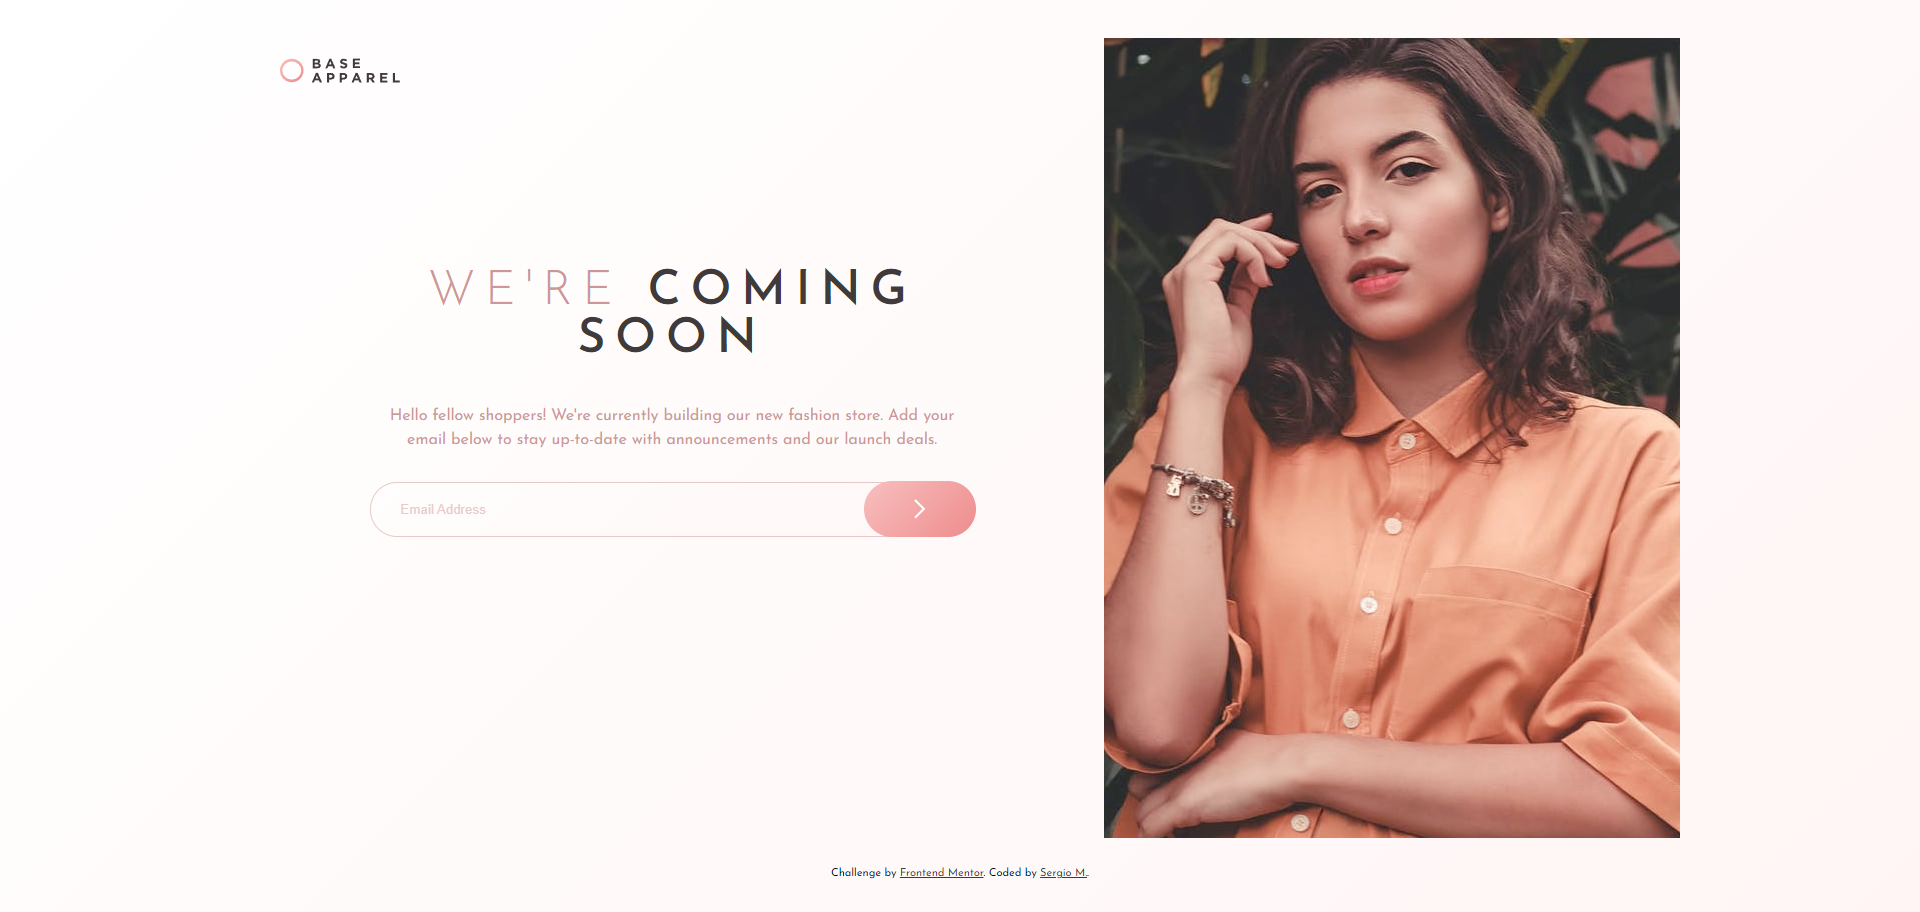
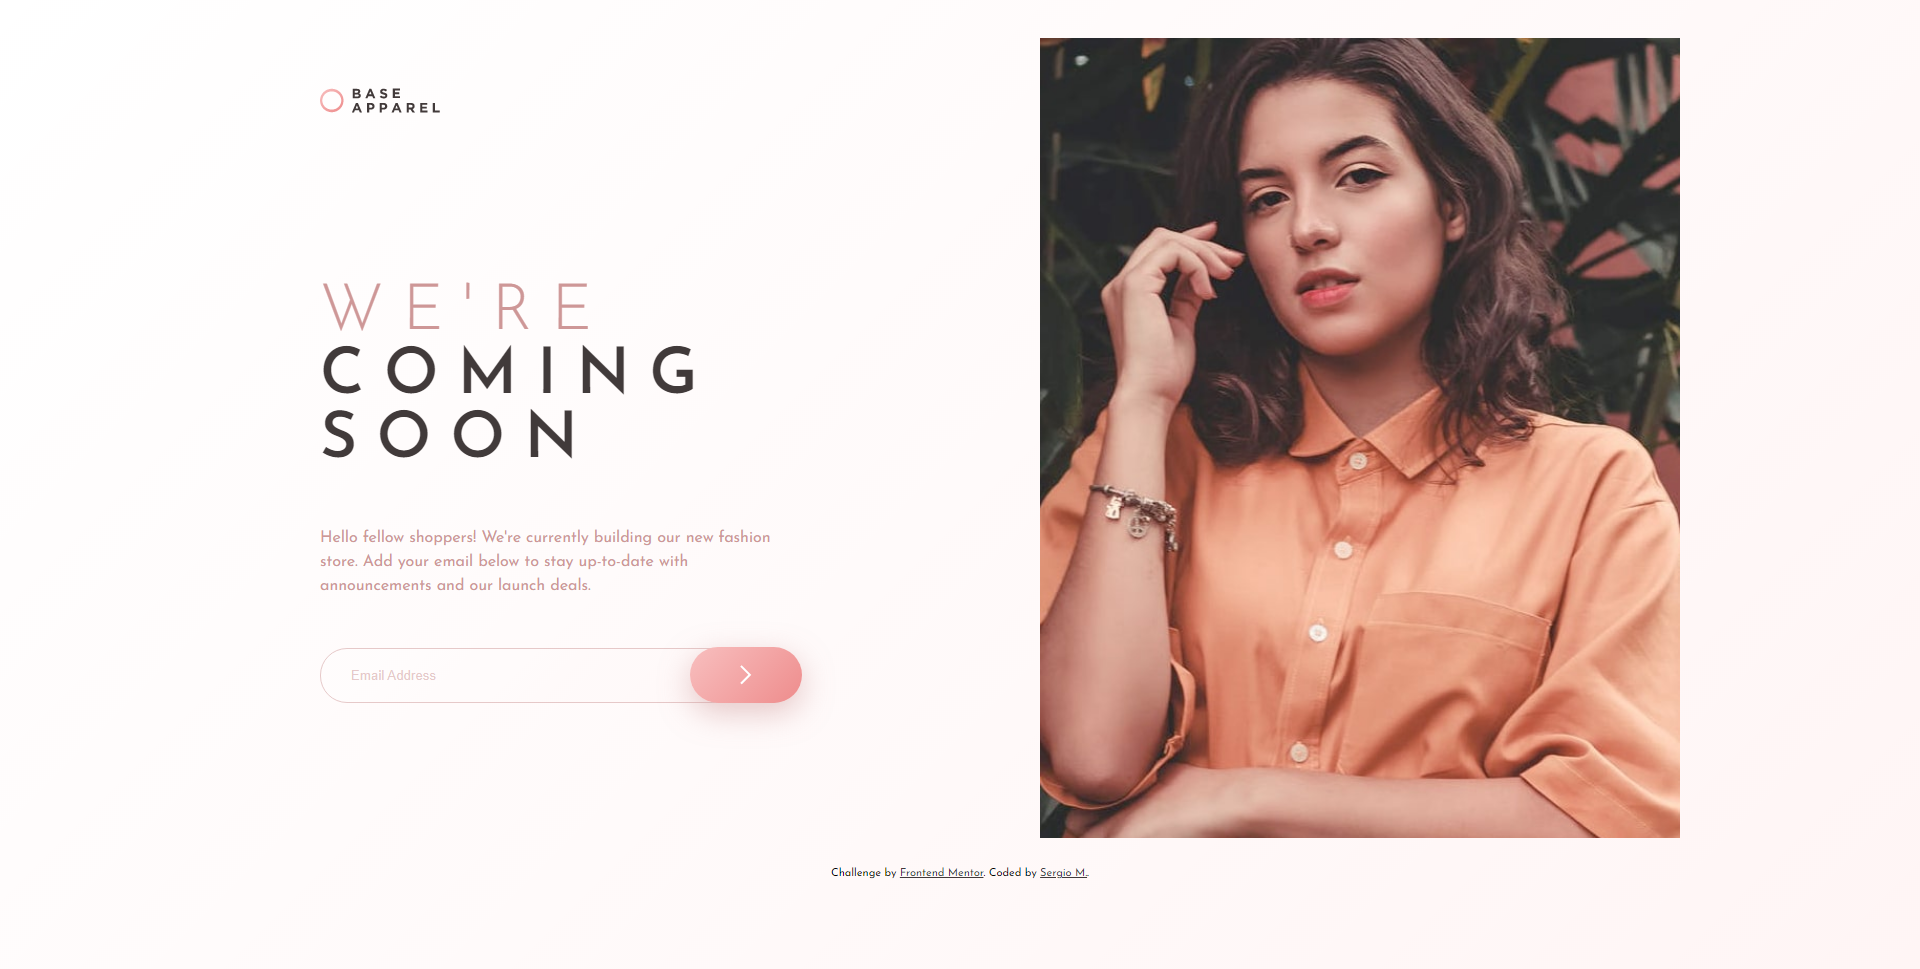
I add final details for today

diff --git a/style.css b/style.css
@@ -85,7 +85,7 @@ body{
     position: absolute;
     right: -2px;
     top: -1px;
-    box-shadow: 0 10px 30px var(--DesaturatedRed-0);
+    box-shadow: 0 10px 30px var(--DesaturatedRed-1);
     transition: background 400ms, box-shadow 400ms;
 }
 
@@ -118,7 +118,7 @@ body{
 }
 /*javascript*/
 
-@media screen and (min-width: 651px) {
+@media screen and (min-width: 761px) {
     .card{
         max-width: 1440px;
         min-height: 800px;
@@ -131,12 +131,12 @@ body{
         background-size: cover;
     }
     .card__section, .card__header{
-        padding-left: 18%;
+        padding-left: 10%;
         padding-right: 30%;
         text-align: left;
     }
     .card__logo{
-        padding: 50px 0 0 18%;
+        padding: 50px 0 0 10%;
     }
     .section__mail-arrow{
         padding: 18px 50px;
